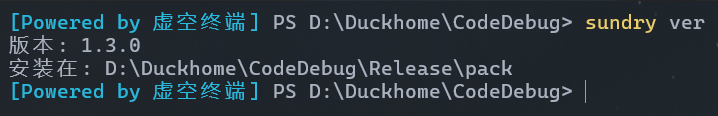
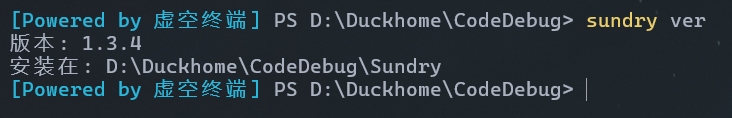
docs: 更新 README

Changed region(s): [[0.0, 0.0776, 0.9805, 0.8793]]

diff --git a/README.md b/README.md
@@ -15,25 +15,25 @@ sundry config init
 
 > [!TIP]  
 > 在 **1.1.0** 之前，配置文件在程序目录下的 `config.json` 中；在 **1.1.0** 之后，配置文件在用户目录下的 `.config/DuckStudio/Sundry/config.json` 中。 - 这是为更新时不覆盖配置文件考虑的，如果配置文件不对，请再次使用 `sundry config init`。  
-> ~~由于作者实在是太懒了~~，在卸载 Sundry 之后不会移除配置文件。    
+> ~~由于作者实在是太懒了~~，在卸载 Sundry 之后不会移除配置文件，如果需要可以手动移除。    
 
-(可选) 初始化完配置文件后用以下命令确认下:  
+初始化完配置文件后用以下命令确认下:  
 
 ```bash
 sundry config show
 ```
 
-(可选) 如果有任何地方不对，请使用这个命令修改对应值:  
+如果有任何地方不对，请使用这个命令修改对应键的值:  
 
 ```bash
-sundry config [条目] [值]
+sundry config "<条目>" "<值>"
 ```
 
 更多可用命令请见下方示例。  
 
 ## 可用命令
 
-> Sundry [1.3.0](https://github.com/DuckDuckStudio/Sundry/releases/tag/1.3.0)
+> Sundry [1.3.4](https://github.com/DuckDuckStudio/Sundry/releases/tag/1.3.4)
 
 <details>
   <summary><code>sundry help</code></summary>
@@ -108,7 +108,9 @@ sundry config [条目] [值]
 
 - 别名: `日志分析`, `logs-analyse`, `logs_analyse`, `Azure日志分析`
 - 作用: **分析 [Azure Validation Pipeline Run](https://duckduckstudio.github.io/Articles/#/信息速查/终端/WinGet/参考信息?id=验证管道日志在哪看？) 失败时的日志，来自动查找具体哪里失败了。**
-- 用法: `sundry logs-analyse <Azure Pipline Url> [是否保留日志文件] [是否显示一般错误/异常]`
+- 用法:
+  - 分析日志: `sundry logs-analyse <Azure Pipline Url> [是否保留日志文件] [是否显示一般错误/异常]`
+  - 清理之前下载的日志: `sundry logs-analyse cleanup`
 - 示例:
   - 分析日志
     > 这里的 Azure Validation Pipeline Run 是 https://github.com/microsoft/winget-pkgs/pull/267849#issuecomment-2998878757 的。
@@ -123,6 +125,31 @@ sundry config [条目] [值]
 
 </details>
 
+<details>
+  <summary><code>sundry verify</code></summary>
+
+![Sundry verify 命令展示图。该命令用于测试本地或 PR 上的清单的安装和卸载，并获取 ARP 条目变更。](docs/photos/README/Demo/Commands/verify.png)  
+
+> 截图是在 Hyper-V Windows 10 x64 虚拟机上的测试。  
+
+- 别名: `verify`, `test`, `验证`, `测试`
+- 作用: **用于测试本地或 PR 上的清单的安装和卸载，并获取 ARP 条目变更。**
+- 用法:
+  - 本地清单: `sundry verify <软件包标识符> <软件包版本>`
+  - PR 清单: `sundry verify <PR链接>`
+- 示例:
+  - 测试本地清单: `sundry verify DuckStudio.FufuTools 1.3.10`
+  - 测试 PR 清单: `sundry verify https://github.com/microsoft/winget-pkgs/pull/275045` (我不确定我的 CI 会不会把它的 HEAD 分支删掉，如果 HEAD 分支被删掉了可以找其他的打开的 PR 作示例)
+
+> [!TIP]  
+> 它只能获取 HEAD 分支没被删除的 PR 的清单，如果 HEAD 分支被删除了 GitHub API 会响应 404 Not Found。  
+> 它暂时无法获取 `UpgradeCode`。  
+> 对于本地清单，配置文件指向的 winget-pkgs 文件夹中至少要有以下文件:  
+> - Tools/Auth.csv
+> - manifests/清单所在文件夹/清单文件 (例如 manifests/d/DuckStudio/Sundry/1.3.4/*)
+> 对于 PR 清单，Sundry 会将清单文件下载到 `%temp%/Sundry/Verify/PRManifest/PR编号` 下。  
+
+</details>
 
 <details>
   <summary><code>sundry ignore</code></summary>
@@ -266,14 +293,19 @@ python -m venv .venv
 & ".venv\Scripts\Activate.ps1"
 python.exe -m pip install --upgrade pip
 pip install -r "requirements.txt"
-pip install pyinstaller
 ```
-4. 构建
+4. 转换图标格式 (可选)
 ```pwsh
-pyinstaller --onefile --distpath="Release/pack" --name="sundry.exe" "src/sundry.py"
+python "自动化脚本/png-2-ico.py"
 ```
-5. 复制所需文件
-```bash
-cp -v src/fun.txt Release/pack
-cp -v LICENSE Release/pack
+5. 构建
+```pwsh
+pyinstaller --onefile --distpath="Release" --name="sundry.exe" "src/sundry.py" --icon "icon/Sundry.ico"
+# 如果前面没转换图标格式，参数中的图标请用 icon/Sundry.png，Pyinstaller 会尝试自己转换格式。
 ```
+6. 复制所需文件
+```pwsh
+Copy-Item -Path "src/fun.txt" -Destination "Release" -Verbose
+Copy-Item -Path "LICENSE" -Destination "Release" -Verbose
+```
+7. `Release` 下就是构建结果
